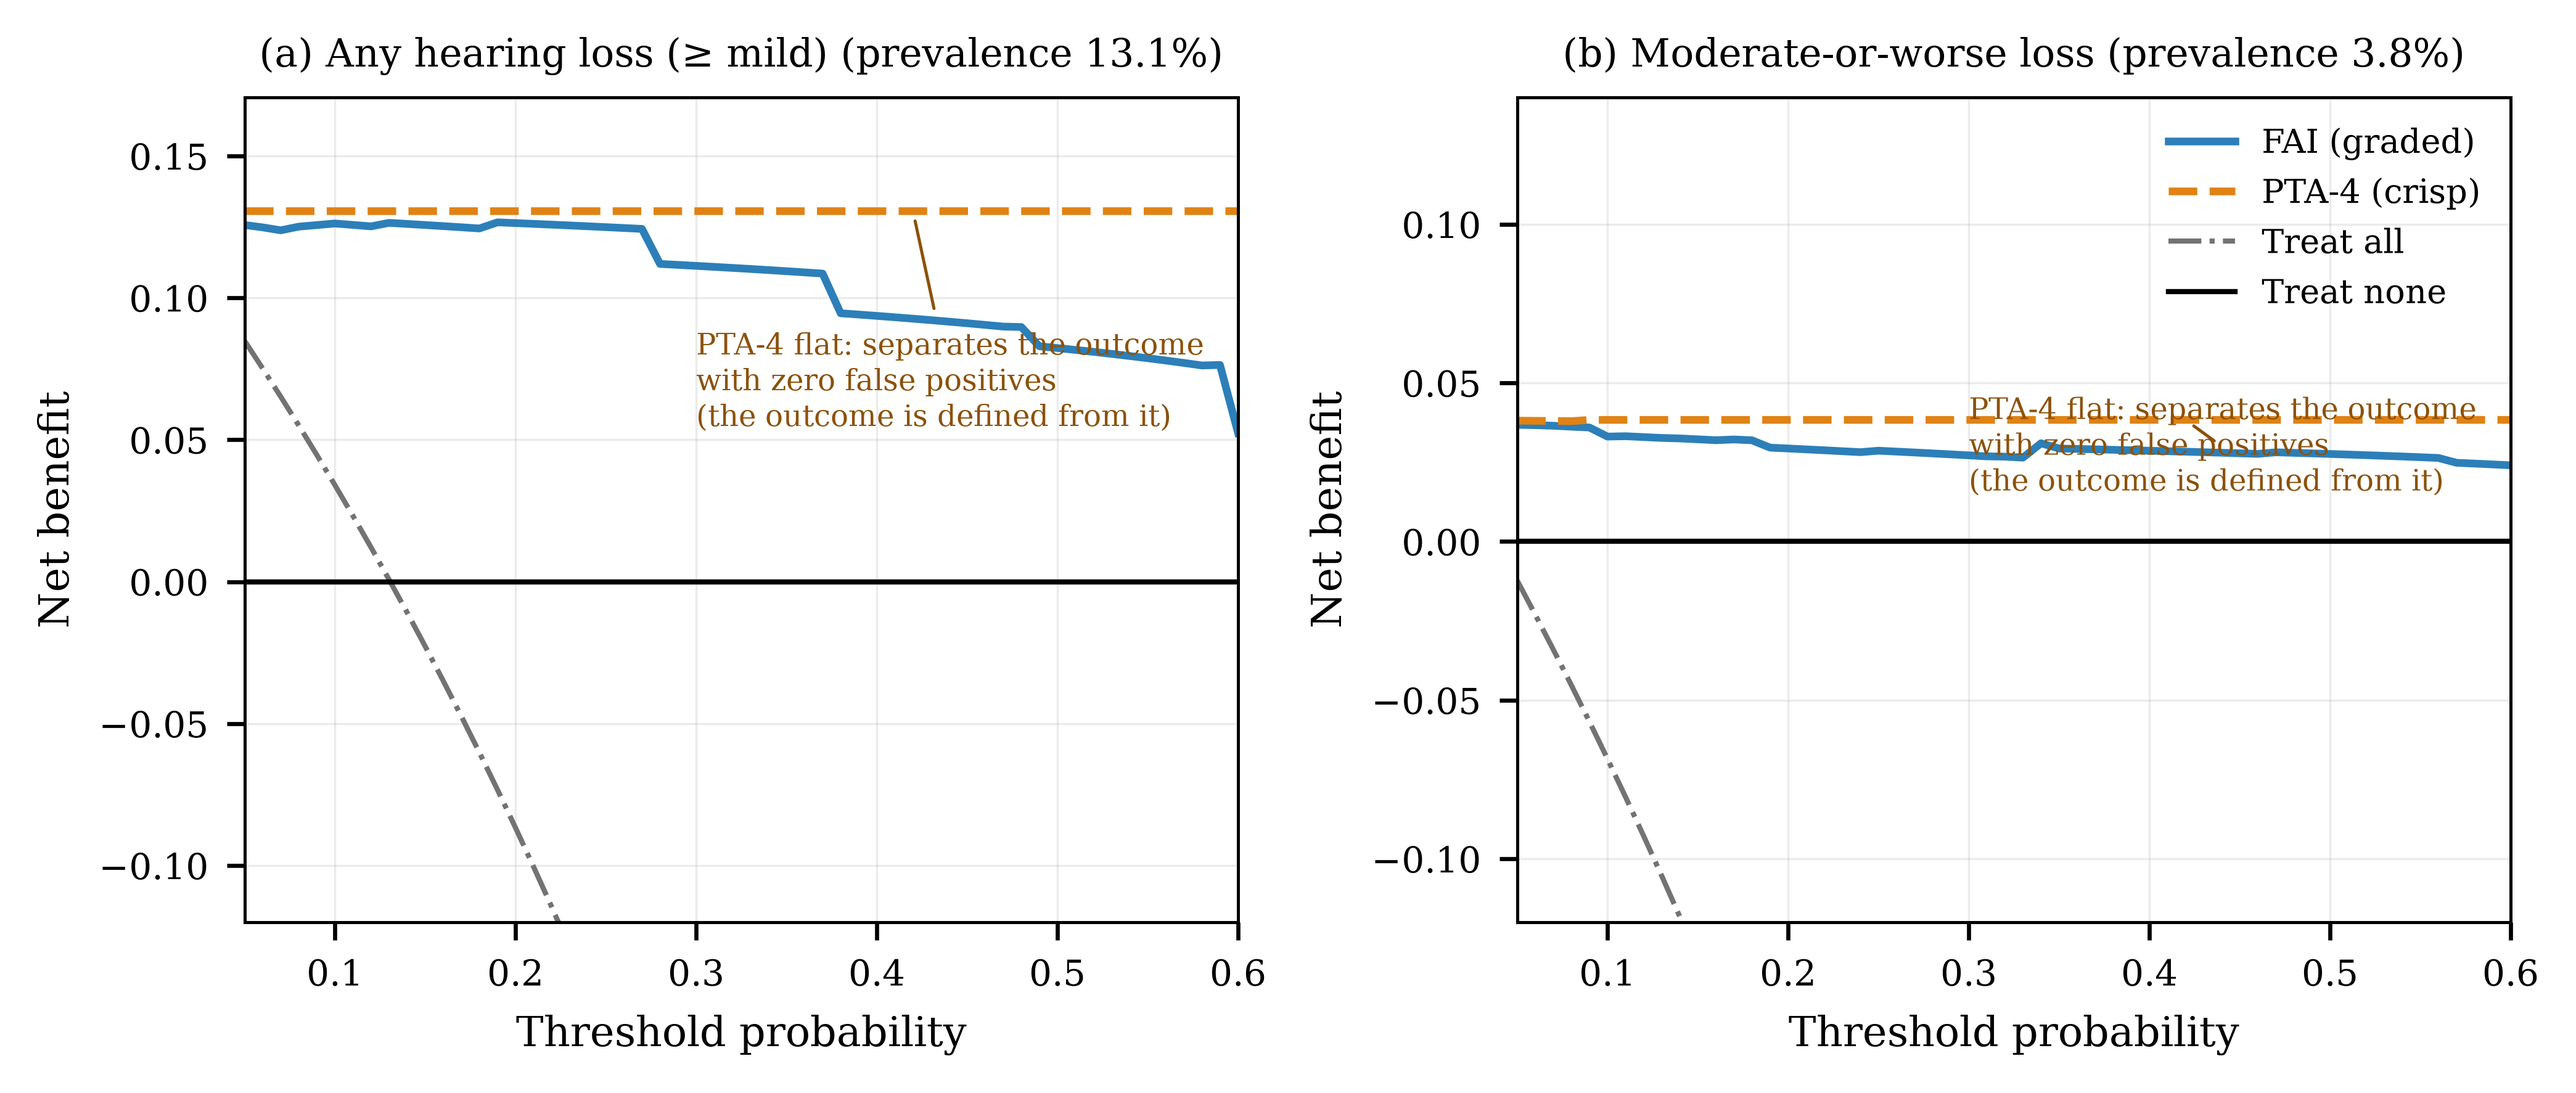
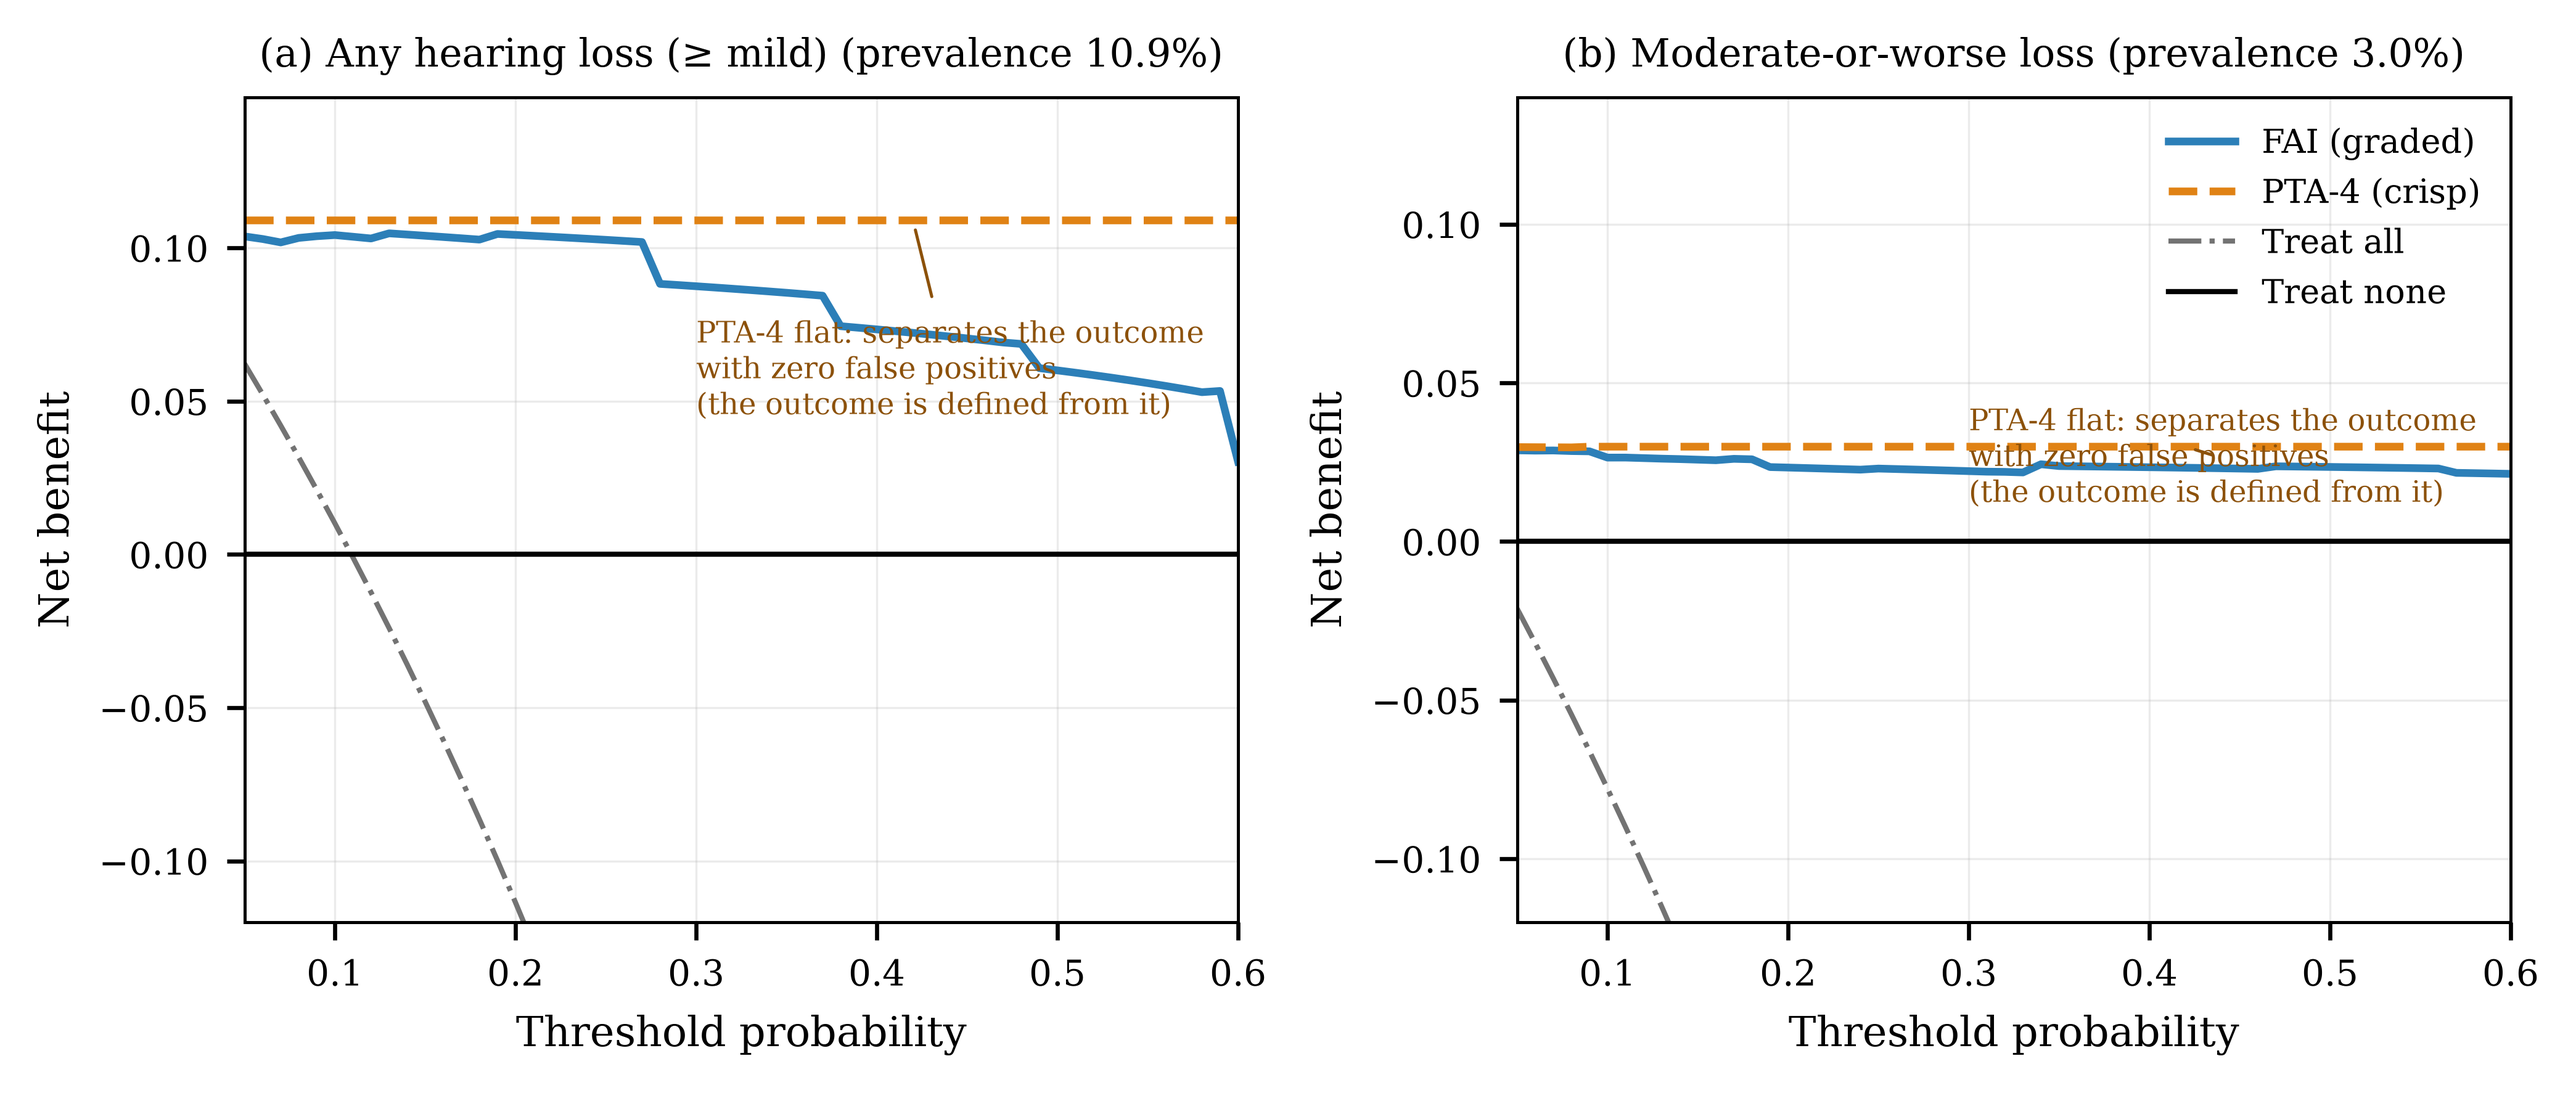
Point the figure generator at the tracked artwork directory
make_cmpb_figures.py wrote to cmbp_v2/figures_v3/, the scratch directory, while the
manuscript pack keeps its artwork in manuscript/figures/. Regenerating therefore
left the tracked figures stale at the pre-correction numbers -- the same failure
mode as build_v4.py's stale chdir, and it produced no error. FIGDIR now resolves to
manuscript/figures.

Figures regenerated from the corrected cohort outputs and verified numerically:
bias -0.13 dB with limits -11.5 to +11.2, transfer FAI = 0.890*PTA + 3.11 (n=3,913),
distance curve 86.3/91.0/94.3 at 5/10/15 dB, and the boundary labelled Clark rather
than WHO. All four panels clear CMPB's 3,543 px minimum width.

diff --git a/scripts/make_cmpb_figures.py b/scripts/make_cmpb_figures.py
@@ -48,7 +48,9 @@ from matplotlib.patches import Patch
 from matplotlib.lines import Line2D
 
 OUT = ROOT / "data/output_participant"
-FIGDIR = ROOT / "cmbp_v2/figures_v3"
+# The manuscript pack keeps its artwork in manuscript/figures/. Writing to the
+# cmbp_v2 scratch directory instead left the tracked figures silently stale.
+FIGDIR = ROOT / "manuscript/figures"
 FIGDIR.mkdir(parents=True, exist_ok=True)
 DPI = 600
 
